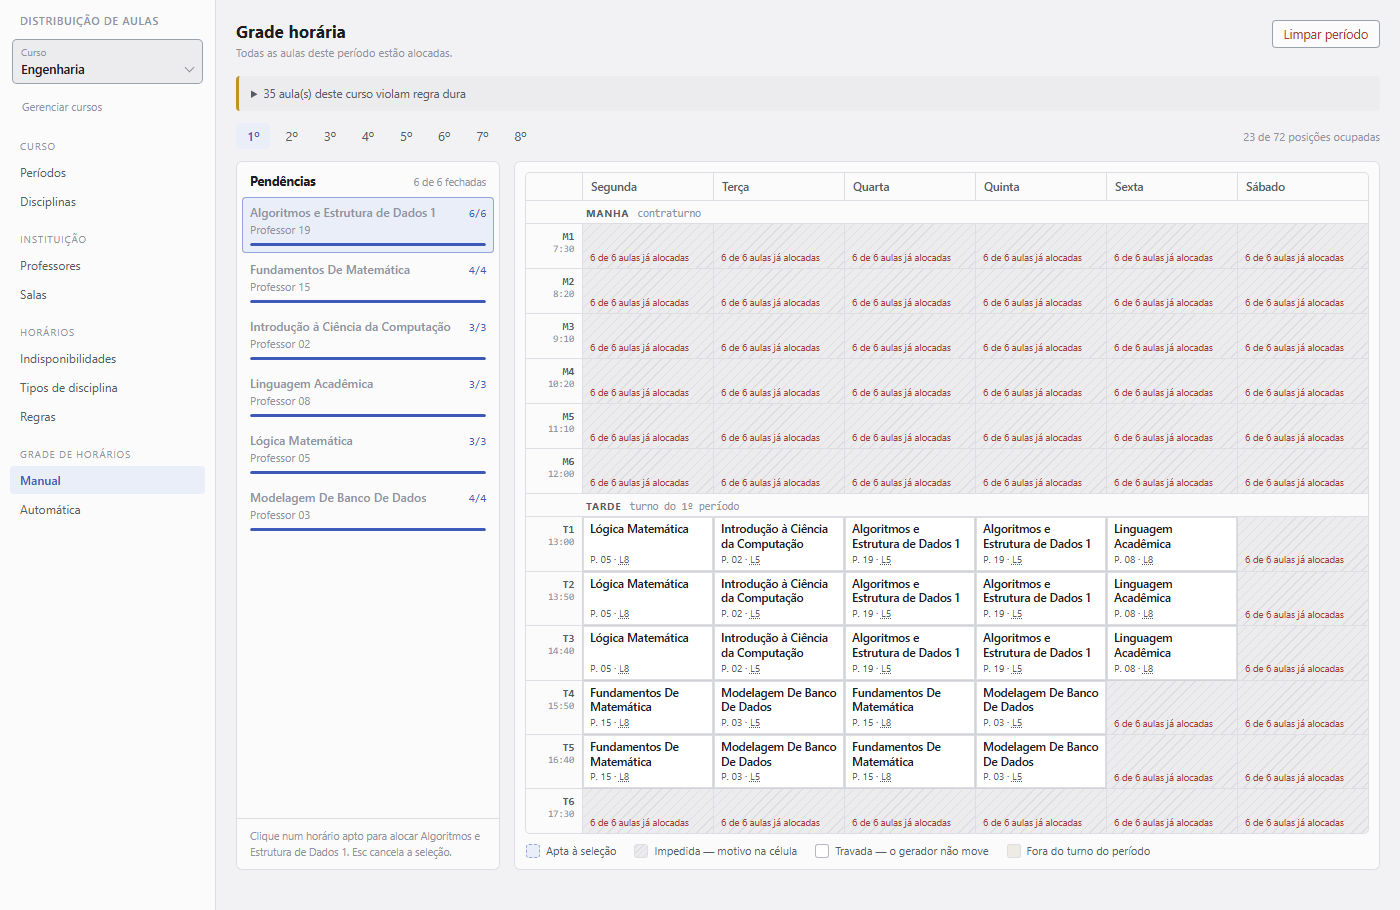
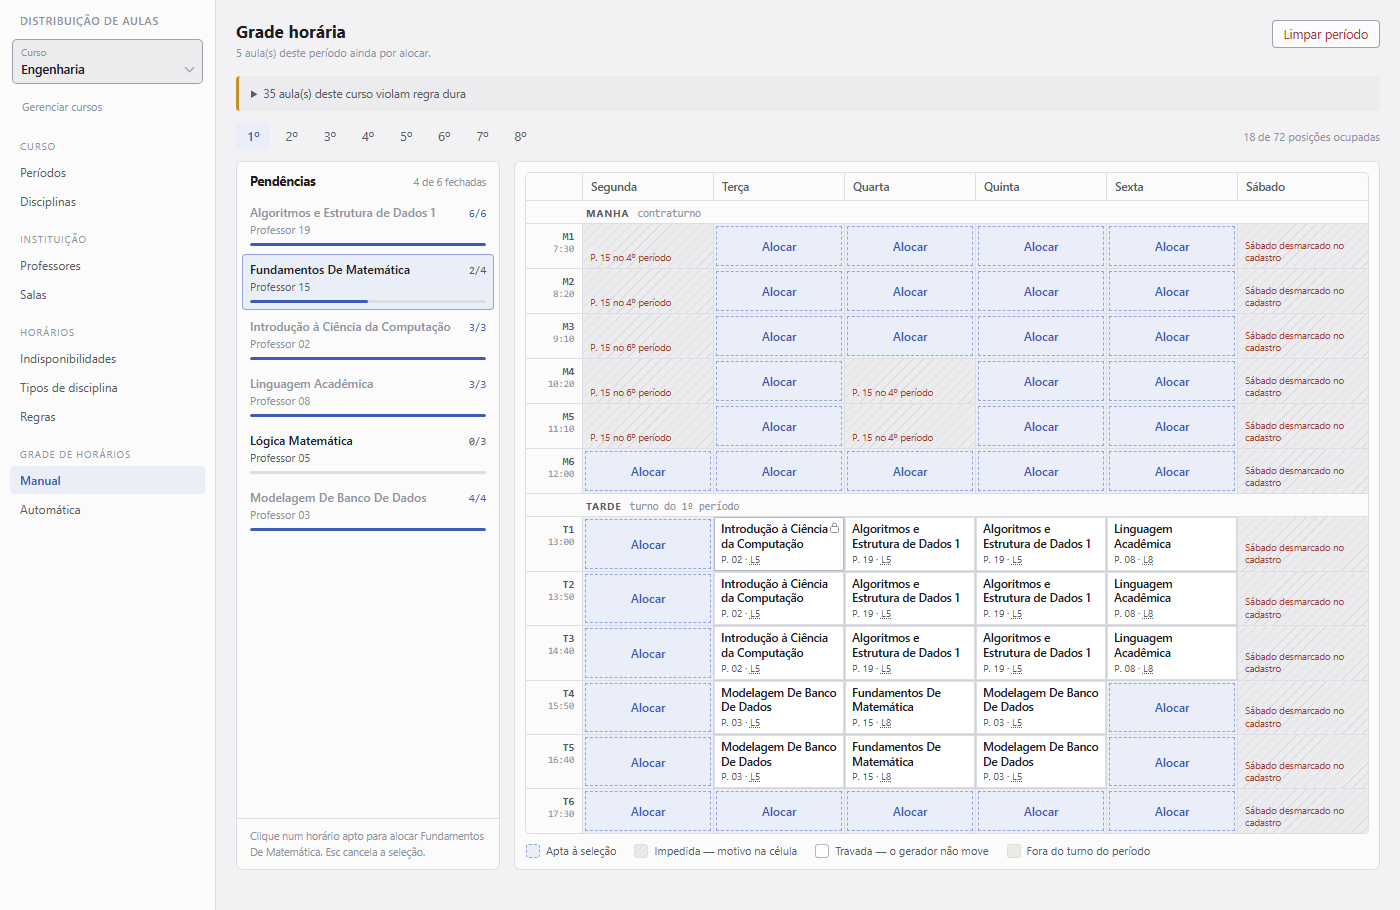
Captura da grade manual com pendência aberta: células apta, impedida e travada

diff --git a/testes/visual/telas.spec.ts b/testes/visual/telas.spec.ts
@@ -35,9 +35,21 @@ for (const [esquema, sufixo] of [["light", "claro"], ["dark", "escuro"]] as cons
       await expect(page).toHaveScreenshot(`disciplinas-editor-${sufixo}.png`);
     });
 
-    test("Manual, pendência escolhida", async ({ page }) => {
+    test("Manual, pendência escolhida", async ({ page, banco }) => {
+      // A massa tem o 1º período fechado. Tirar as aulas da segunda-feira abre
+      // pendências (células aptas e impedidas) e fixar uma aula mostra o cadeado.
+      banco.exec(`
+        DELETE FROM alocacoes WHERE curso_id = 1 AND periodo = 1 AND dia = 0;
+        UPDATE alocacoes SET fixada = 1
+         WHERE rowid = (SELECT rowid FROM alocacoes WHERE curso_id = 1 AND periodo = 1 ORDER BY dia, hora LIMIT 1);
+      `);
+      await page.reload();
       await irPara(page, "Manual");
-      await page.getByRole("main").getByRole("listitem").first().getByRole("button").click();
+      await expect(celula(page, "Segunda", "M1")).toBeVisible();
+      // Primeira pendência incompleta, na ordem da lista (a mesma toda vez).
+      const pendencia = page.getByRole("main").getByRole("listitem").filter({ has: page.locator("button:not(.completa)") }).first().getByRole("button");
+      await pendencia.click();
+      await expect(pendencia).toHaveAttribute("aria-pressed", "true");
       await expect(page).toHaveScreenshot(`grade-manual-escolhida-${sufixo}.png`, { fullPage: true });
     });
   });
